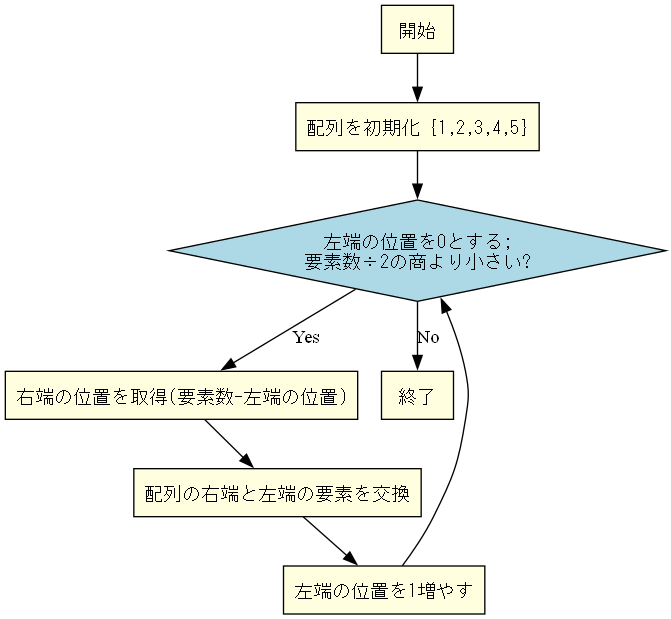
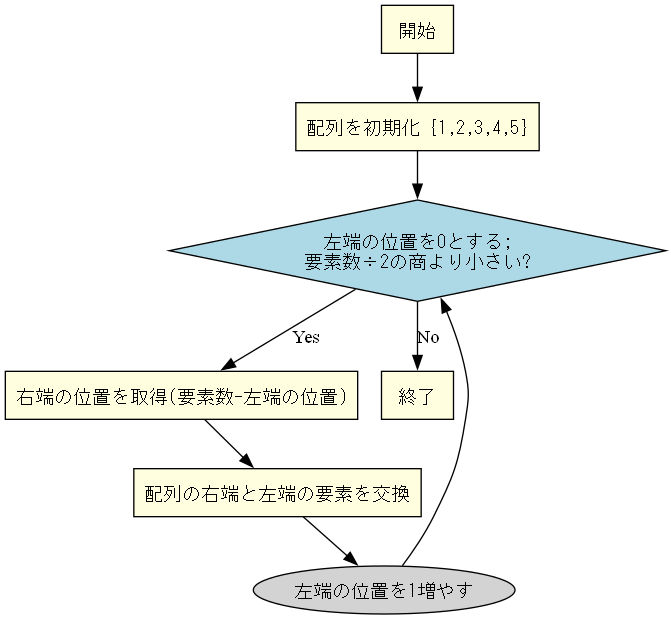
2025.06.29 Q2-Q4 プログラムフロー図

Changed region(s): [[0.3577, 0.8901, 0.775, 1.0]]

diff --git a/sample_20220425/Q.04/プログラムフロー図/gen_graph_Q4.py b/sample_20220425/Q.04/プログラムフロー図/gen_graph_Q4.py
@@ -1,0 +1,31 @@
+from graphviz import Digraph
+
+dot = Digraph(format='png')
+dot.attr(rankdir='TB')
+dot.attr('node', shape='box', style='filled', fontname='MS Gothic', fillcolor='lightyellow')
+
+dot.node('start', '開始 (行列を受け取る)')
+dot.node('init', '3行の列 sparseMatrix を作成')
+dot.node('loop_i', '行番号iを0から順に処理', shape='diamond', fillcolor='lightblue')
+dot.node('loop_j', '列番号jを0から順に処理', shape='diamond', fillcolor='lightblue')
+dot.node('cond', '行列の値は0？', shape='diamond', fillcolor='lightblue')
+dot.node('store', '行番号, 列番号, 行列の値を\nsparseMatrix に記憶')
+dot.node('endLoop_j', '次の列へ', shape='ellipse', fillcolor='lightgrey')
+dot.node('endLoop_i', '次の行へ', shape='ellipse', fillcolor='lightgrey')
+dot.node('ret', 'sparseMatrix を返す')
+dot.node('end', '終了')
+
+dot.edge('start', 'init')
+dot.edge('init', 'loop_i')
+dot.edge('loop_i', 'loop_j', label='Yes')
+dot.edge('loop_j', 'cond', label='Yes')
+dot.edge('cond', 'store', label='Yes')
+dot.edge('store', 'endLoop_j')
+dot.edge('cond', 'endLoop_j', label='No')
+dot.edge('endLoop_j', 'loop_j')
+dot.edge('loop_j', 'endLoop_i', label='No')
+dot.edge('endLoop_i', 'loop_i')
+dot.edge('loop_i', 'ret', label='No')
+dot.edge('ret', 'end')
+
+dot.render('graph_Q4', view=True, cleanup=True)

diff --git a/sample_20220425/Q.03/プログラムフロー図/gen_graph_Q3.py b/sample_20220425/Q.03/プログラムフロー図/gen_graph_Q3.py
@@ -5,13 +5,13 @@ dot.attr(rankdir='TB')
 dot.attr('node', shape='box', style='filled', fontname='MS Gothic', fillcolor='lightyellow')
 
 dot.node('global', 'リスト先頭を初期化')
-dot.node('start', '開始')
+dot.node('start', '開始 (文字を受け取る)')
 dot.node('create', '新しい要素を作る')
 dot.node('isEmpty', 'リストは空ですか？', shape='diamond', fillcolor='lightblue')
 dot.node('setHead', 'リスト先頭に新しい要素を入れる')
 dot.node('setPrev', '今の要素をリスト先頭に設定')
 dot.node('loopCond', '次の要素がありますか？', shape='diamond', fillcolor='lightblue')
-dot.node('advance', '今の要素を次の要素に進める')
+dot.node('advance', '今の要素を次の要素に進める', shape='ellipse', fillcolor='lightgrey')
 dot.node('insert', '今の要素の次を新しい要素に設定')
 dot.node('end', '処理終了')
 

diff --git a/sample_20220425/Q.02/プログラムフロー図/gen_graph_Q2.py b/sample_20220425/Q.02/プログラムフロー図/gen_graph_Q2.py
@@ -9,7 +9,7 @@ dot.node('init', '配列を初期化 {1,2,3,4,5}')
 dot.node('cond', '左端の位置を0とする;\n要素数÷2の商より小さい?', shape='diamond', fillcolor='lightblue')
 dot.node('calc', '右端の位置を取得(要素数-左端の位置)')
 dot.node('swap', '配列の右端と左端の要素を交換')
-dot.node('inc', '左端の位置を1増やす')
+dot.node('inc', '左端の位置を1増やす', shape='ellipse', fillcolor='lightgrey')
 dot.node('end', '終了')
 
 dot.edge('start', 'init')
